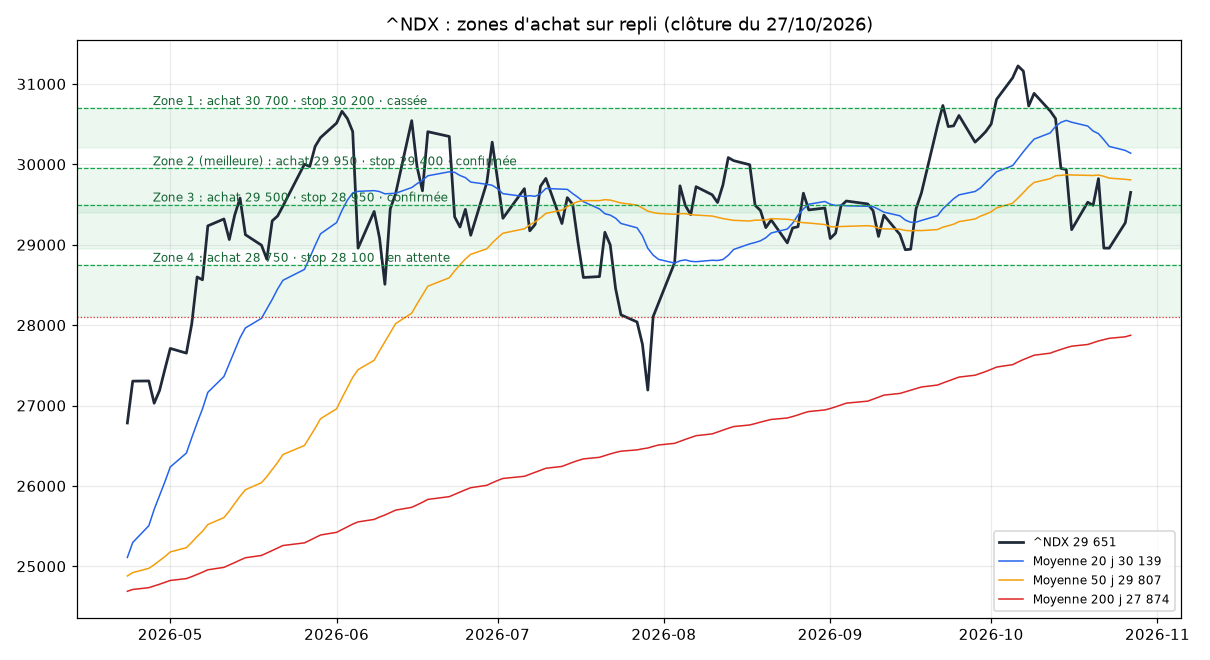
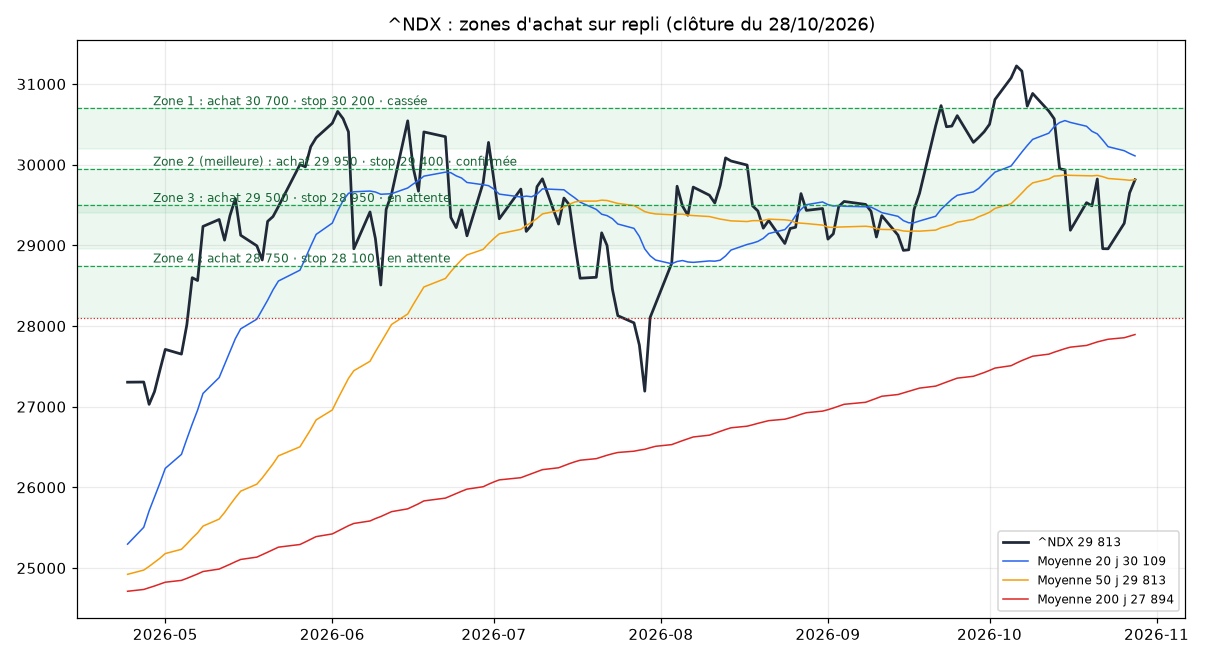
Rapports du 2026-10-29

diff --git a/reports/speculation.md b/reports/speculation.md
@@ -1,4 +1,4 @@
-# Spéculation : actions leaders (séance du 28/10/2026)
+# Spéculation : actions leaders (séance du 29/10/2026)
 
 Capital spéculation : 1000 €, en parts égales, en **actions réelles sur eToro** (sans levier).
 
@@ -8,28 +8,28 @@ Règle : les actions qui montent le plus par rapport au S&P 500 sur 6 mois, au-d
 
 | Action | Rang | Force relative 6 mois | Cours | Moyenne 50 jours | Montant |
 | --- | --- | --- | --- | --- | --- |
-| ServiceNow | 1 | +67.2 % | 158.18 | 138.17 | 200 € |
-| AbbVie | 4 | +39.6 % | 286.74 | 265.52 | 200 € |
-| Eli Lilly | 3 | +40.1 % | 1279.14 | 1188.58 | 200 € |
-| Thermo Fisher | 5 | +38.9 % | 684.89 | 646.7 | 200 € |
-| Salesforce | 6 | +30.4 % | 247.61 | 235.83 | 200 € |
+| ServiceNow | 2 | +60.4 % | 150.13 | 139.53 | 200 € |
+| AbbVie | 5 | +33.6 % | 285.99 | 266.84 | 200 € |
+| Eli Lilly | 3 | +43.3 % | 1288.3 | 1191.81 | 200 € |
+| Thermo Fisher | 4 | +42.8 % | 704.15 | 651.17 | 200 € |
+| Salesforce | 7 | +25.7 % | 242.11 | 237.76 | 200 € |
 
 ## Classement complet (15 premiers)
 
 | Rang | Action | Force relative 6 mois | Au-dessus de la MM50 |
 | --- | --- | --- | --- |
-| 1 | ServiceNow | +67.2 % | oui |
-| 2 | AMD | +51.1 % | non |
-| 3 | Eli Lilly | +40.1 % | oui |
-| 4 | AbbVie | +39.6 % | oui |
-| 5 | Thermo Fisher | +38.9 % | oui |
-| 6 | Salesforce | +30.4 % | oui |
-| 7 | Amgen | +24.8 % | oui |
-| 8 | Visa | +23.4 % | oui |
-| 9 | Merck | +21.6 % | non |
-| 10 | Apple | +21.1 % | oui |
-| 11 | Chevron | +20.2 % | oui |
-| 12 | Philip Morris | +19.9 % | oui |
-| 13 | Exxon Mobil | +18.5 % | oui |
-| 14 | Cisco | +18.2 % | oui |
-| 15 | Microsoft | +18.2 % | oui |
+| 1 | AMD | +63.1 % | oui |
+| 2 | ServiceNow | +60.4 % | oui |
+| 3 | Eli Lilly | +43.3 % | oui |
+| 4 | Thermo Fisher | +42.8 % | oui |
+| 5 | AbbVie | +33.6 % | oui |
+| 6 | Amgen | +26.9 % | oui |
+| 7 | Salesforce | +25.7 % | oui |
+| 8 | Merck | +20.2 % | non |
+| 9 | Apple | +19.0 % | oui |
+| 10 | Philip Morris | +18.1 % | oui |
+| 11 | Microsoft | +17.1 % | oui |
+| 12 | Cisco | +15.6 % | oui |
+| 13 | Chevron | +12.9 % | oui |
+| 14 | Johnson & Johnson | +12.0 % | oui |
+| 15 | Visa | +11.6 % | oui |

diff --git a/reports/daytrading.md b/reports/daytrading.md
@@ -1,17 +1,35 @@
-# Day trading en barrières IG : plan pour la séance suivant le 28/10/2026
+# Day trading en barrières IG : plan pour la séance suivant le 29/10/2026
 
 Un seul côté par indice : le premier niveau touché. Knock-out = stop. Si ni le stop ni l'objectif n'est touché, fermer avant la clôture de la séance.
 
 **En test : aucun message Telegram tant que le backtest n'est pas positif.**
 
-### Nikkei 225
+### S&P 500
 
-- Achat si le cours dépasse 64339.98 : knock-out 63623.48, objectif 66489.47
-- Vente si le cours passe sous 63517.00 : knock-out 64233.50, objectif 61367.51
-- Mise ≈ 0.04 € par point, soit une prime d'environ 30 €
+- Achat si le cours dépasse 7765.38 : knock-out 7730.61, objectif 7869.70
+- Vente si le cours passe sous 7711.42 : knock-out 7746.19, objectif 7607.10
+- Mise ≈ 0.86 € par point, soit une prime d'environ 30 €
+
+### Nasdaq 100
+
+- Achat si le cours dépasse 29894.10 : knock-out 29667.15, objectif 30574.94
+- Vente si le cours passe sous 29573.03 : knock-out 29799.98, objectif 28892.19
+- Mise ≈ 0.13 € par point, soit une prime d'environ 30 €
+
+### DAX 40
+
+- Achat si le cours dépasse 25747.50 : knock-out 25594.15, objectif 26207.53
+- Vente si le cours passe sous 25503.75 : knock-out 25657.10, objectif 25043.72
+- Mise ≈ 0.20 € par point, soit une prime d'environ 30 €
+
+### FTSE 100
+
+- Achat si le cours dépasse 10733.41 : knock-out 10680.38, objectif 10892.49
+- Vente si le cours passe sous 10632.69 : knock-out 10685.72, objectif 10473.61
+- Mise ≈ 0.57 € par point, soit une prime d'environ 30 €
 
 ### CAC 40
 
-- Achat si le cours dépasse 7882.71 : knock-out 7837.35, objectif 8018.80
-- Vente si le cours passe sous 7805.34 : knock-out 7850.70, objectif 7669.25
-- Mise ≈ 0.66 € par point, soit une prime d'environ 30 €
+- Achat si le cours dépasse 7927.56 : knock-out 7883.46, objectif 8059.87
+- Vente si le cours passe sous 7861.93 : knock-out 7906.03, objectif 7729.62
+- Mise ≈ 0.68 € par point, soit une prime d'environ 30 €

diff --git a/reports/signaux.md b/reports/signaux.md
@@ -1,6 +1,6 @@
-# Signaux de la séance du mercredi 28 octobre 2026
+# Signaux de la séance du jeudi 29 octobre 2026
 
-Calculés le 28/10/2026 sur les cours de clôture du 28/10/2026.  
+Calculés le 29/10/2026 sur les cours de clôture du 29/10/2026.  
 Marché (S&P 500 vs moyenne 200 jours) : haussier, achats seulement.  
 Positions en cours : 4 sur 4.
 
@@ -8,4 +8,4 @@ Aucun nouveau signal sur cette séance.
 
 **Nouvelles introductions** (tendance jugée sur la moyenne 50 jours en attendant 200 séances) :
 
-- SpaceX (94 séances) : cours 146.90, moyenne 50 jours 149.38 (en dessous), plus haut 20 jours 176.42, plus haut depuis l'introduction 225.64
+- SpaceX (96 séances) : cours 145.23, moyenne 50 jours 149.46 (en dessous), plus haut 20 jours 176.42, plus haut depuis l'introduction 225.64

diff --git a/reports/suivi.md b/reports/suivi.md
@@ -1,4 +1,4 @@
-# Suivi des signaux (mis à jour le 28/10/2026)
+# Suivi des signaux (mis à jour le 29/10/2026)
 
 **4 signaux clôturés : 0 succès, 3 échecs, 1 neutres (réussite 0.0 %, résultat cumulé -3.06 R).** 4 positions ouvertes, 0 en attente d'entrée.
 
